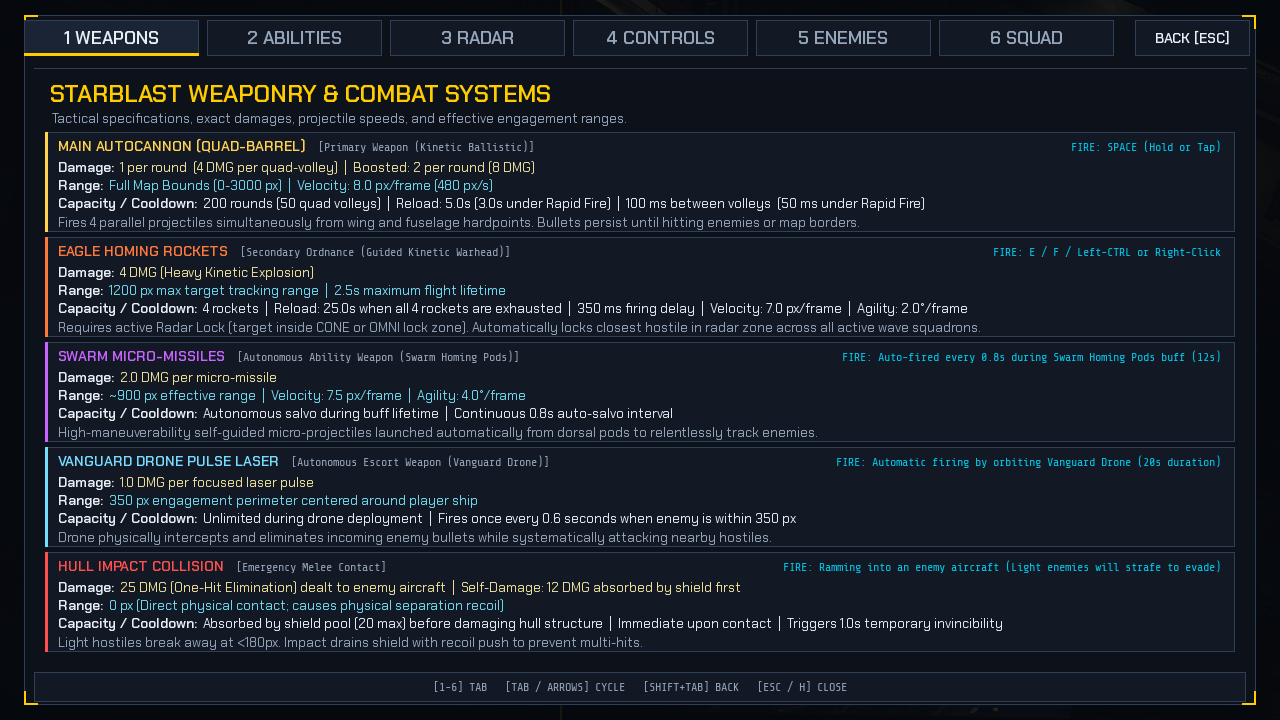
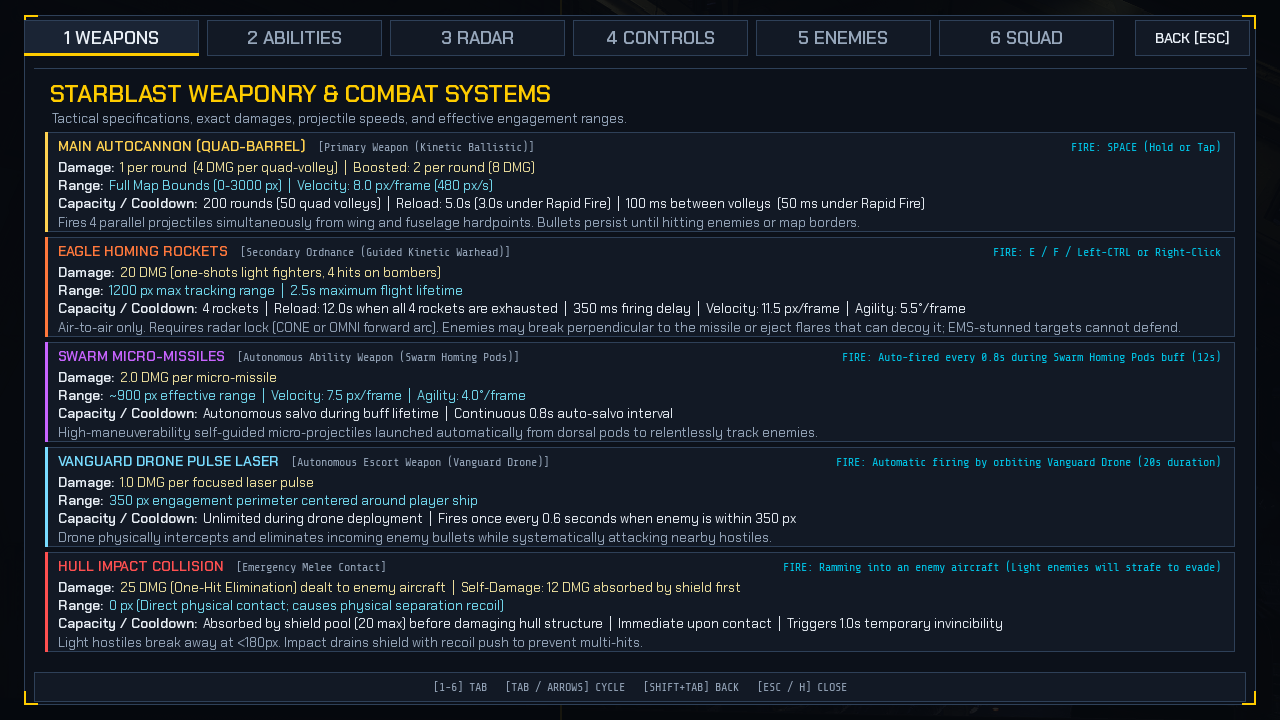
docs: sync manual, README and AGENTS with the air-to-air rocket rework
- Help manual: correct rocket stats (20 DMG, 11.5 px/frame, 5.5°/frame,
  12 s reload), air-to-air note with countermeasures, OMNI as ±75° arc.
- README/AGENTS: air-only rockets, forward OMNI arc, lock brackets on all
  aerial targets, flares/beam evasion, new test files.
- Act II dissident objective no longer suggests rockets vs the fabricator.
- Regenerated manual_weapons screenshot.

Changed region(s): [[0.0938, 0.3667, 0.7812, 0.4583]]

diff --git a/src/eagle1/ui/help_menu.py b/src/eagle1/ui/help_menu.py
@@ -66,11 +66,11 @@ WEAPONS = [
         "name": "Eagle Homing Rockets",
         "type": "Secondary Ordnance (Guided Kinetic Warhead)",
         "trigger": "E / F / Left-CTRL or Right-Click",
-        "damage": "4 DMG (Heavy Kinetic Explosion)",
-        "range": "1200 px max target tracking range  |  2.5s maximum flight lifetime",
-        "cooldown": "350 ms firing delay  |  Velocity: 7.0 px/frame  |  Agility: 2.0°/frame",
-        "capacity": "4 rockets  |  Reload: 25.0s when all 4 rockets are exhausted",
-        "notes": "Requires active Radar Lock (target inside CONE or OMNI lock zone). Automatically locks closest hostile in radar zone across all active wave squadrons.",
+        "damage": "20 DMG (one-shots light fighters, 4 hits on bombers)",
+        "range": "1200 px max tracking range  |  2.5s maximum flight lifetime",
+        "cooldown": "350 ms firing delay  |  Velocity: 11.5 px/frame  |  Agility: 5.5°/frame",
+        "capacity": "4 rockets  |  Reload: 12.0s when all 4 rockets are exhausted",
+        "notes": "Air-to-air only. Requires radar lock (CONE or OMNI forward arc). Enemies may break perpendicular to the missile or eject flares that can decoy it; EMS-stunned targets cannot defend.",
         "color": (255, 120, 60),
     },
     {
@@ -671,7 +671,7 @@ class HelpMenu:
         accent_color = theme.INFO if is_cone else theme.WARNING
         widgets.draw_panel(surface, p_rect, theme.PANEL_RAISED, accent_color, accent_color)
 
-        mode_title = "MODE 1: CONE (Long-Range Forward Sector)" if is_cone else "MODE 2: OMNI (360° Close-Quarters Sphere)"
+        mode_title = "MODE 1: CONE (Long-Range Forward Sector)" if is_cone else "MODE 2: OMNI (Close-Range Wide Forward Arc)"
         self._text(surface, self.font_subtitle, mode_title.upper(), accent_color, (x + 16, y + 12), w - 32)
 
         if is_cone:
@@ -686,13 +686,13 @@ class HelpMenu:
             ]
         else:
             specs = [
-                ("Search Geometry:", "Full 360° Spherical Perimeter around ship"),
+                ("Search Geometry:", "150° wide forward arc (±75° around the nose)"),
                 ("Minimum Arming Range:", "0 pixels (Zero blind spot point-blank lock)"),
                 ("Maximum Target Range:", "420 pixels (Tight defensive perimeter)"),
-                ("HUD Visualization:", "Glowing 360° circular perimeter ring around ship"),
-                ("Tactical Role:", "Close Dogfighting & Defense - 360° situational awareness"),
-                ("Best Situation:", "Enemies maneuvering behind you, circling, or flanking"),
-                ("Limitation:", "Cannot acquire distant targets (>420 pixels)"),
+                ("HUD Visualization:", "Orange arc sector on the minimap"),
+                ("Tactical Role:", "Close dogfighting - snap locks on targets crossing your nose"),
+                ("Best Situation:", "Turning fights and flanking targets ahead of the wing line"),
+                ("Limitation:", "No locks behind the ship or beyond 420 px"),
             ]
 
         curr_y = y + 44

diff --git a/src/eagle1/story/campaign_act2.py b/src/eagle1/story/campaign_act2.py
@@ -177,7 +177,7 @@ SORTIE3_OBJECTIVE_NEUTRAL: str = (
     "Vent perimeter breached. Finish the damaged fabricator and cover Doc while he stabilizes Braker."
 )
 SORTIE3_OBJECTIVE_DISSIDENT: str = (
-    "500kg drop aborted. Destroy the fabricator manually with cannons and rockets; keep Braker clear."
+    "500kg drop aborted. Destroy the fabricator manually with cannons; keep Braker clear."
 )
 SORTIE4_OBJECTIVE_LOYAL: str = (
     "PRIORITY: Commit every pass to the Factory Strider's ventral core. Squad cover is secondary."

diff --git a/README.md b/README.md
@@ -206,15 +206,15 @@ The ground support subsystem (`ground_support.py`) brings a living planetary bat
 - **Automaton Fabricators (`EnemyFabricator`):**
   - Fortified manufacturing structures (220 HP, 150 PTS) with glowing thermal exhaust ports and factory antennas.
   - Continuously construct and deploy ground reinforcements (Troopers & Walkers): first unit after 12 seconds, then every 16 seconds.
-  - Can be targeted and destroyed by cannons, homing rockets, and precision air strikes, triggering multi-stage secondary explosions.
+  - Can be targeted and destroyed by cannons and precision air strikes, triggering multi-stage secondary explosions.
 
 ### Air-to-Ground Combat (Cannons, Rockets & Strikes)
 
 - **Quad-Cannon Ground Strafing (`Spacebar`):**
   - Player bullets collide with and damage Automaton Troopers, Walkers, and Fabricator buildings.
   - Floating score popups (`+25 PTS`, `+60 PTS`, `+150 PTS`) indicate confirmed ground kills.
-- **Homing Rockets Ground Lock-on (`Right-Click` or `E` / `F` / `LCTRL`):**
-  - Homing missiles acquire ground hostiles and fabricators within radar coverage (`CONE` or `OMNI`), steering downward to detonate directly on target.
+- **Homing Rockets are air-to-air only:**
+  - Rockets ignore ground hostiles and fabricators; use cannons and stratagems against ground targets.
 - **Stratagem Air Strikes (`C`):**
   - All 8 stratagem strikes damage both aerial hostiles and ground targets within their blast radius.
 
@@ -345,15 +345,19 @@ The game incorporates a dedicated power-up subsystem (`src/eagle1/systems/poweru
 ### Secondary Homing Rockets (`Player.Rocket`)
 
 - **Capacity & Reload:** Carries up to 4 rockets and reloads automatically (12.0 s) when depleted.
-- **Target Acquisition:** Acquires both aerial squadrons and ground hostiles (Automaton Troopers, Walkers, Fabricators).
+- **Target Acquisition:** Air-to-air only: acquires fighters, bombers and academy training drones.
 - **Fire Controls:** Triggered using **Right Mouse Button**, `E`, `F`, or `Left Control`.
 - **Flight Dynamics:** Rockets travel with smooth turning physics and explode on impact.
+- **Enemy Countermeasures:**
+  - *Beam break:* fighters that spot a rocket homing on them turn perpendicular to it at corner speed; a well-timed break can make the rocket overshoot (`EVADED`).
+  - *Flares:* when a rocket closes in, fighters (1 salvo) and bombers (2 salvos) may eject flares that can pull it off target (`FLARES` / `MISSILE DECOYED`).
+  - EMS-stunned targets can neither break nor flare. Roughly two out of three rockets still hit a defending fighter.
 
 ### Dual Radar Modes (Toggle with `Q`)
 
 - **`CONE` Mode (Long-Range Intercept):** Forward search arc (300px to 1050px) for head-on approaches.
-- **`OMNI` Mode (Close-Quarter Defense):** Full 360-degree perimeter scan (0px to 420px) for dogfighting and ground strafing.
-- **Target Lock Indicator:** Bounding lock boxes highlight tracked hostiles on HUD and minimap.
+- **`OMNI` Mode (Close-Quarter Dogfighting):** Wide forward arc (±75°, 0px to 420px); targets behind the ship cannot be locked.
+- **Target Lock Indicator:** Lock brackets mark every radar-locked aerial target (fighters, bombers, drones); the minimap shows the active radar sector.
 
 
 
@@ -511,7 +515,7 @@ pytest -v
 
 | Area | Representative modules | What is covered |
 | :--- | :--- | :--- |
-| Flight & combat | `test_flight_dynamics.py`, `test_dogfight_combat.py`, `test_enemy_bfm_ai.py`, `test_missile_intercept.py`, `test_health_and_damage.py`, `test_math_and_physics.py`, `test_weapons_and_cooldowns.py` | Inertia flight model, enemy BFM AI, rocket guidance, shields-first damage, camera clamping, reticle lead, cannon/rocket reloads, stratagem charges. |
+| Flight & combat | `test_flight_dynamics.py`, `test_dogfight_combat.py`, `test_enemy_bfm_ai.py`, `test_missile_intercept.py`, `test_missile_defense.py`, `test_enemy_missile_evasion.py`, `test_rocket_air_only.py`, `test_radar_lock_zone.py`, `test_rocket_balance.py`, `test_health_and_damage.py`, `test_math_and_physics.py`, `test_weapons_and_cooldowns.py` | Inertia flight model, enemy BFM AI, rocket guidance, missile countermeasures (flares, beam evasion) and their seeded balance band, air-only rocket locks, radar lock zones, shields-first damage, camera clamping, reticle lead, cannon/rocket reloads, stratagem charges. |
 | Ground war & missions | `test_ground_support.py`, `test_bomber_extraction.py`, `test_mission_modes_regression.py`, `test_mission_progression.py` | Helldiver squad AI, CAS delivery, supply drops, Factory Strider, extraction gating, all mission modes. |
 | Story campaign | `test_act1_sorties.py`, `test_act2_sorties.py`, `test_campaign_e2e_progression.py`, `test_campaign_session.py`, `test_narrative_triggers.py`, `test_story_*.py`, `test_cinematic_player.py`, `test_super_destroyer.py` | Sortie triggers and dilemmas, loyalty vector, saves, cinematics, hub deck and NPC dialogue. |
 | Tutorial & rearm | `test_academy_briefing.py`, `test_academy_integration.py`, `test_hangar_cinematic.py`, `test_hangar_cinematic_theme.py` | Academy drills and graduation, rearm phases, hoist/wing-arm choreography, Stratagem Hero highscore persistence. |

diff --git a/AGENTS.md b/AGENTS.md
@@ -75,10 +75,10 @@ Always keep coordinate spaces strictly separated:
 
 ### 2. Weapons & Fire Control
 - **Quad-Cannons (`Spacebar`)**: 4 wing-offset projectiles per volley. Consumes ammo from `PLAYER_MAX_BULLETS = 200` with periodic reloads (`PLAYER_RELOAD_TIME = 5000` ms).
-- **Homing Rockets (`Right Click` / `E` / `F` / `LCTRL`)**: Capacity of 4 missiles. Locks onto aerial or ground targets within radar coverage, navigating with turning physics.
+- **Homing Rockets (`Right Click` / `E` / `F` / `LCTRL`)**: Capacity of 4 missiles. Locks onto aerial targets only (fighters, bombers, academy drones) within radar coverage, navigating with turning physics. Enemies counter with beam breaks and flares (`src/eagle1/systems/missile_defense.py`; balance locked by `tests/test_rocket_balance.py`).
 - **Radar Modes (`Q`)**:
   - `CONE`: Forward intercept arc (50° angle, 300–1050 px).
-  - `OMNI`: 360° close-quarters perimeter scan (0–420 px).
+  - `OMNI`: Wide forward arc (±75°, 0–420 px); no locks behind the ship.
 - **Predictive Aiming Reticle**:
   - Gun convergence pip at 180 px forward along flight vector.
   - Predictive bomb impact zone dynamically computed ahead: $\text{lead} = 320.0 + v \times 8.0$.
